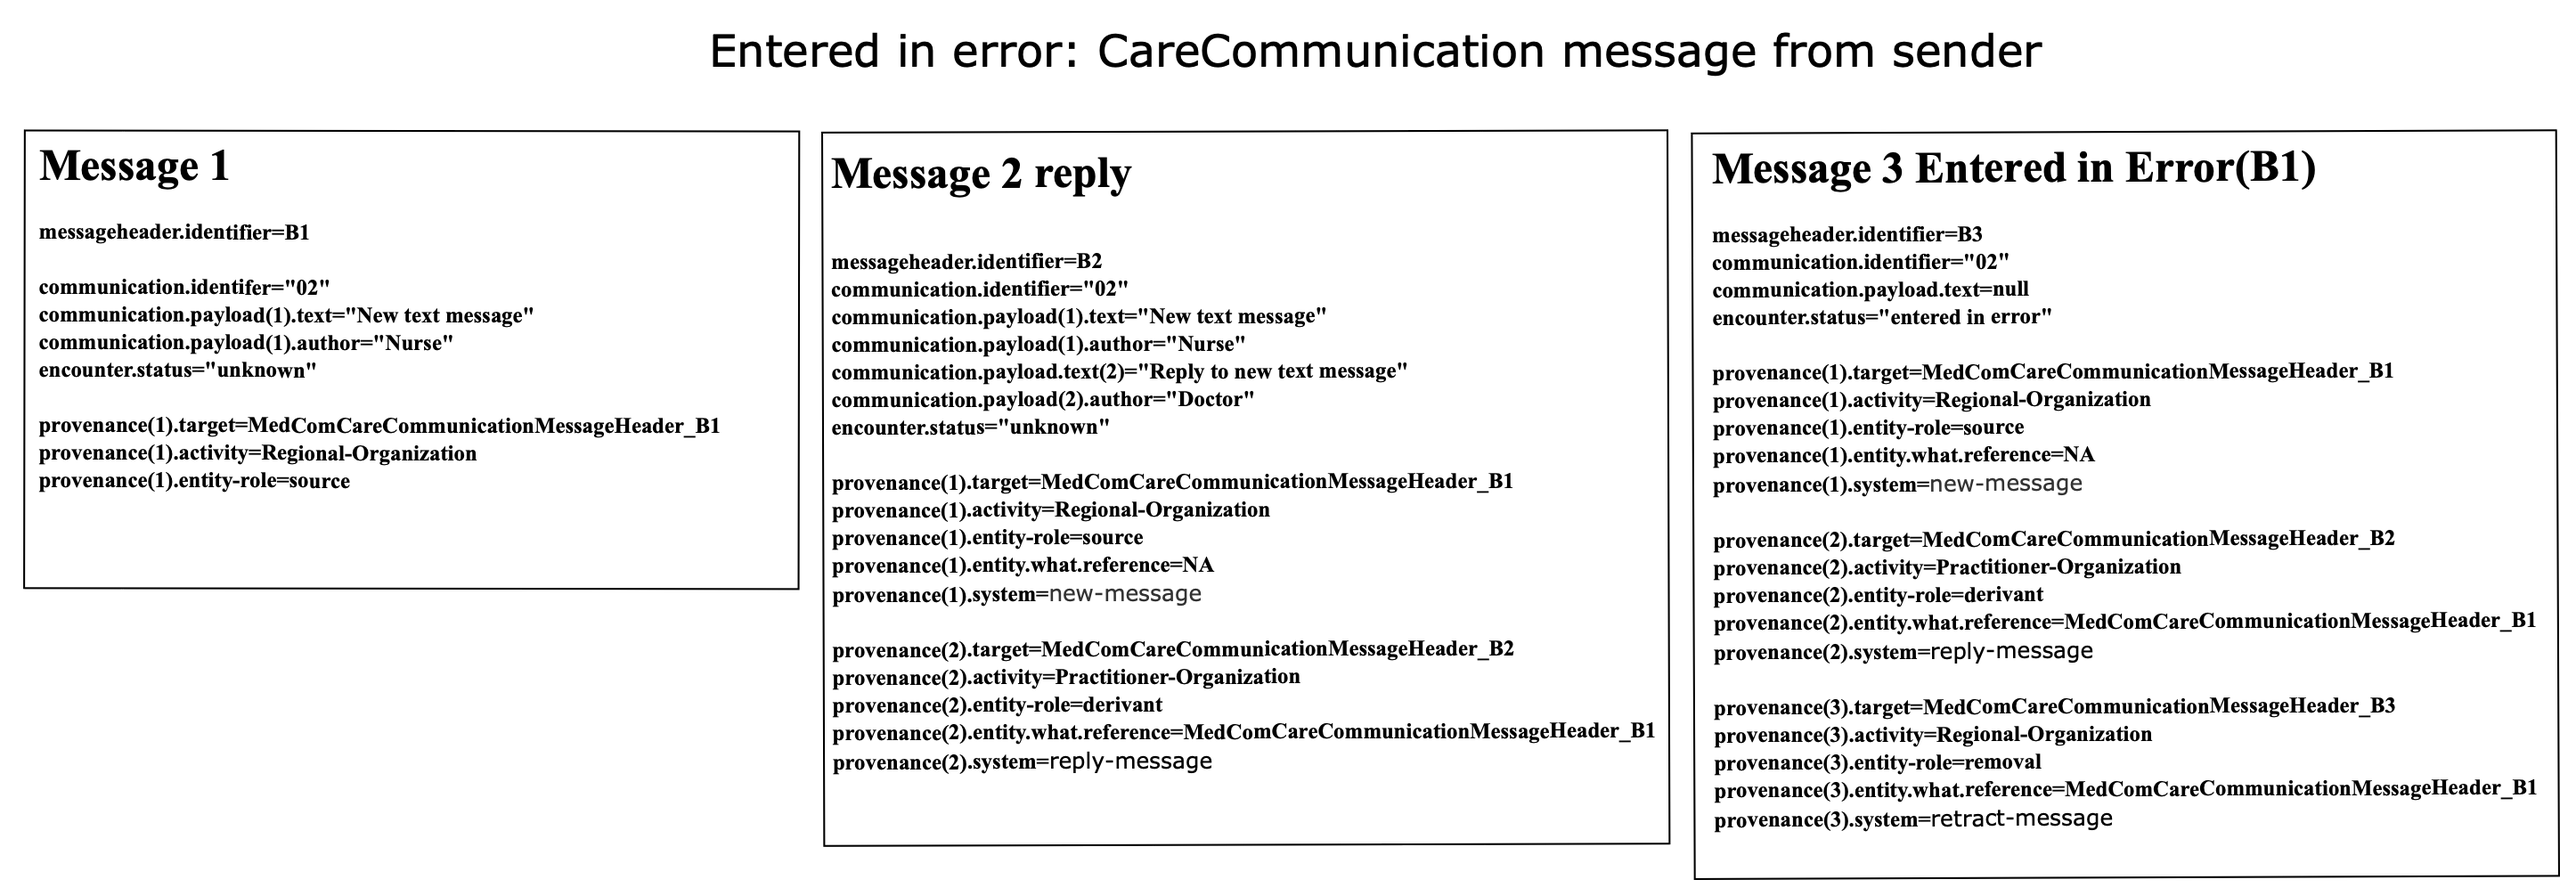
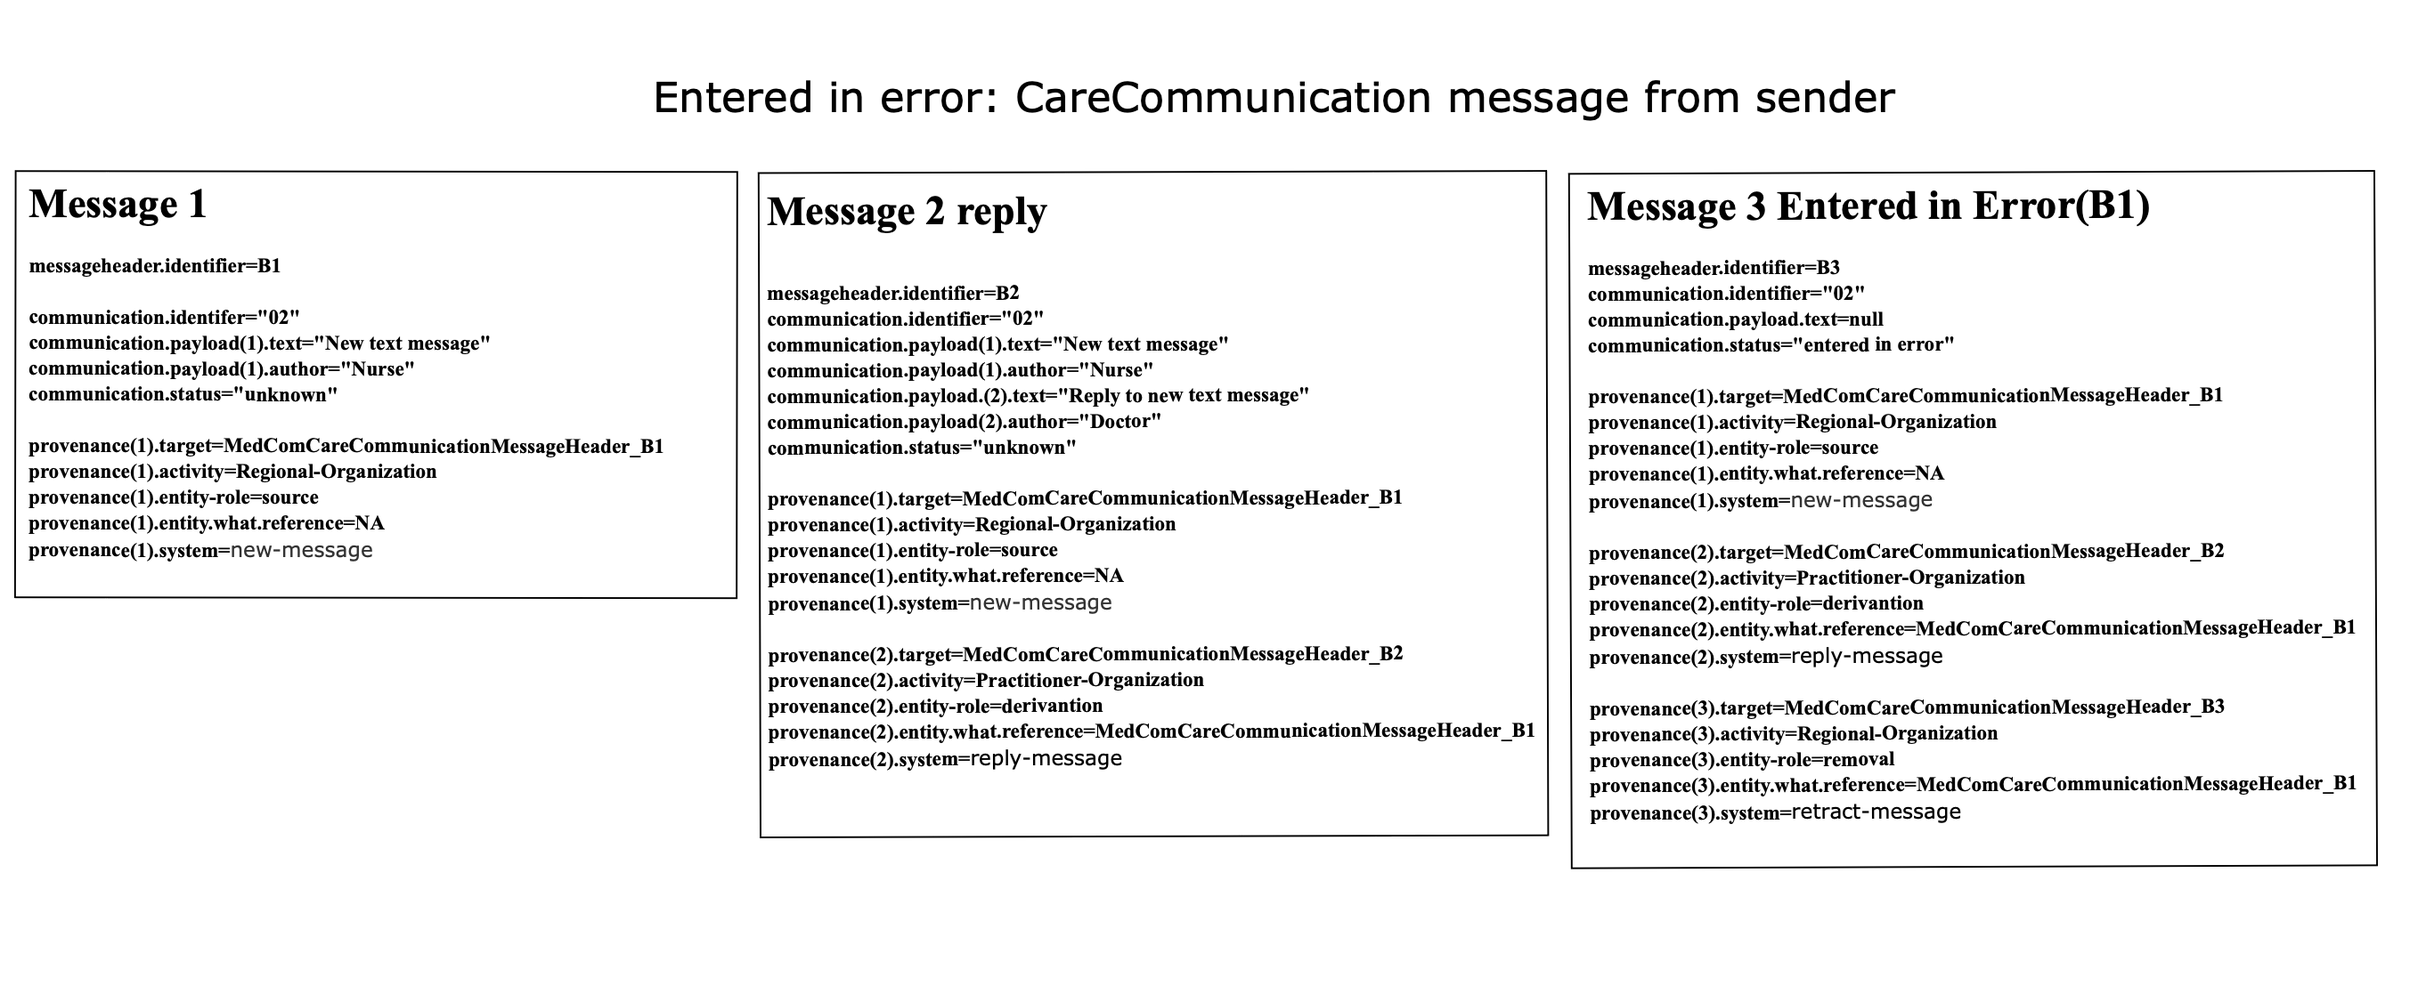
corrected carecommunication graphic and moved information to intro section

diff --git a/input/pagecontent/StructureDefinition-medcom-careCommunication-message-intro.md b/input/pagecontent/StructureDefinition-medcom-careCommunication-message-intro.md
@@ -5,10 +5,7 @@ This profile is the root profile of MedCom CareCommunication message.
 The message contains a bundle that is selfcontained regarding references. 
 The Bundle containing the CareCommunication message shall contain one instance of the MedComMessagingMessage. By convention the cardinality is shown as 0..*
 
-Please refer to the tab "Snapshort Table(Must support)" below for the definition of the required content of a MedComCareCommunicationMessage.
-
-For decription of how to handle message references when sending a reply or forward a MedComCareCommunicationMessage, handling of errors and references between XDIS91 and CareCommunication please refer to the section "Notes".
-The section "Notes" if found at the end of this page.
+Please refer to the tab "Snapshort Table(Must support)" below for the definition of the required content of a MedComCareCommunicationMessage.  
 
 For description regarding the transportation layer please refer to this guide:  
   
@@ -18,4 +15,68 @@ English:
 Danish:  
 * [ MedComs FHIR-meddelelser og forsendelseskuvert 1.0 ](./pdf/MedComs_FHIR-meddelelser_og_forsendelseskuvert_1.0.pdf)  
 
+A CareCommunication message shall contain a text message and zero or more attachments.
+The Communication status may be "unknown". The provenance entity role shall be "source" and provenance system shall be "new-message".
+The Encounter resource is not mandatory in the CareCommunication profile, but if present the Encounter status recommended is "in-progress". 
+For an example of a new message please refer to the following flow examples.
 
+The  non-technical guide lines and use cases for CareCommunication is found here:
+
+English:
+* [CareCommunication Use Cases](./carecommunication/pdf/USE%20CASES_FHIR%20Care%20Communication.pdf)
+* [Non-technical guidelines for CareCommunication](./carecommunication/pdf/FHIR%20Care%20Communication%2C%20MedCom%20FHIR%20Standard.pdf)
+
+Danish:
+* [CareCommunication Use Cases](./carecommunication/pdf/Use%20Cases_FHIR%20Korrespondancemeddelelse.pdf)
+* [Non-technical guidelines for CareCommunication](./carecommunication/pdf/FHIR_Korrespondancemeddelelse.pdf)
+
+#### How to reply a MedComCareCommunicationMessage
+This section describes how a CareCommunicationMessage reply flow shall be handled.
+When sending a reply to a received MedComCareCommunication the reply may contain both the received message and attachments.
+The Communication status may be "unknown". The provenance entity role shall be "derivation" as it is the based on a pre-existing entity and provenance system shall be "reply-message".
+
+
+Please refer to following example:
+* [Simplified example of a MedComCareCommunicationMessage reply message](./carecommunication/CareCommunicationReplyExample.png)
+
+
+#### How to forward a MedComCareCommunicationMessage
+This section describes how a CareCommunicationMessage forward flow shall be handled.  
+When forwarding a received MedComCareCommunication the forward message shall contain both the received message, possible other messages in same communication flow and attachments.
+The Communication status may be "unknown". The provenance entity role shall be "quotation" as it is a repeat of an already transmitted message and provenance system shall be "forward-message".
+
+
+Please refer to following example:
+* [Simplified example of a MedComCareCommunicationMessage forward message ](./carecommunication/CareCommunicationForwardExample.png)
+
+The provenance element always references the last message transmitted, please refer to the example below for an example:
+* [Simplified example of a MedComCareCommunicationMessage forward a reply message ](./carecommunication/CareCommunicationForwardReplyExample.png)
+
+#### Message entered in error  
+This section describes how message entered in error shall be handled.
+If a message a is sent by mistake, the message a shall be marked as sent as error by creating a new FHIR MedComCareCommunicationMessage 
+using the MedComCareCommunication status "entered-in-error" and letting the provenance element point to the errorneous message.
+The provenance entity role shall be "removal" and the provenance system shall be "retract-messasge".  
+
+Please refer to the following examples:
+* [Simplified example of a MedComCareCommunicationMessage where original message is entered in error  ](./carecommunication/CareCommunicationSenderEnteredInErrorExample.png)
+* [Simplified example of a MedComCareCommunicationMessage where message reply is entered in error  ](./carecommunication/CareCommunicationReplyEnteredInErrorExample.png)
+
+#### Message entered is corrected
+This section describes how message shall be corrected.
+It a message text transmitted shall be corrected, the correction message contains the corrected message and the provenance element points the message that shall be corrected. 
+The provenance entity role shall be "revision" and the provenance system shall be "retract-messasge".  
+
+* [Simplified example of a MedComCareCommunicationMessage correction](./carecommunication/CareCommunicationCorrectionExample.png)
+
+#### Message sent in reply to a received MedCom oioxml/edifact message
+When MedComCareCommunication message is sent based on a received MedCom edifact/oioxml message the EpisodeOfCareIdentifier resource referenced by the Encounter ressource 
+shall contain the episode of care identifier of the edifact/oioxml message if present.
+The provenance system skal contain a reference to the received edifact/oioxml. The reference shall contain the locationnumber and letter identfier, divided by #.
+
+* [Simplified example of a MedComCareCommunicationMessage reply to edifact/oioxml](./carecommunication/CareCommunicationBasedOnEdi.png)
+
+
+#### Data references between MedCom XDIS91 standard and the MedCom FHIR CareCommunication profile
+Please refer to:
+* [XDIS91 -> CareCommunication  ](./carecommunication/oioxmlReferencesCareCommunication.png)

diff --git a/input/pagecontent/StructureDefinition-medcom-hospitalNotification-message-intro.md b/input/pagecontent/StructureDefinition-medcom-hospitalNotification-message-intro.md
@@ -5,10 +5,8 @@ This profile is the root profile of MedCom HosptialNotification message.
 The message contains a bundle that is selfcontained regarding references. 
 The Bundle containing the HospitalNotification message shall contain one instance of the MedComMessagingMessage. By convention the cardinality is shown as 0..*
 
-Please refer to the tab "Snapshort Table(Must support)" below for the definition of the required content of a MedComHospitalNotificationMessage.
+Please refer to the tab "Snapshort Table(Must support)" below for the definition of the required content of a MedComHospitalNotificationMessage.  
 
-For decription of how to handle the different types of messages, handling of errors and references between OIOXML advis and the HospitalNotification message please refer to the section "Notes".
-The section "Notes" if found at the end of this page.
 
 For description regarding the transportation layer please refer to this guide:  
    
@@ -18,6 +16,38 @@ English:
 Danish:  
 * [ MedComs FHIR-meddelelser og forsendelseskuvert 1.0 ](./pdf/MedComs_FHIR-meddelelser_og_forsendelseskuvert_1.0.pdf)  
 
+#### Information regarding non-technical guide lines and use cases for HospitalNotification is found here:
 
+English:
+* [HosptialNotification Use Cases](./hospitalnotification/pdf/Use%20cases_Hospital%20Notification_eng.pdf)
+* [Non-technical guidelines for HospitalNotification](./hospitalnotification/pdf/FHIR_Hospital_Notification.pdf)
+
+Danish:
+* [HospitalNotification Use Cases](./hospitalnotification/pdf/Use_cases_advis_om_sygehusophold.pdf)
+* [Non-technical guidelines for HospitalNotification](./hospitalnotification/pdf/FHIR_advis_om_sygehusophold.pdf)
+
+
+#### How to send HospitalNotification Messages for the same encounter
+This section describes how a HospitalNotificationMessage flow.
+
+
+The change of state is dispicted in both the MedComHospitalNotificationEncounter *status*/*class* and the MedComCoreProvenance element *system*.
+Please refer to following map document for details.  
+[Map between the Provenance *system* and the Encounter *class*/*status* ](./hospitalnotification/pdf/Overview_advis_codes_HL7_FHIR.pdf)
+
+
+Please refer to following example:  
+* [Simplified example of a MedComHospitalNotificationMessage for admit and finished stay ](./hospitalnotification/HospitalNotificationAdmitFinishedExample.png)
+* [Simplified example of a MedComHospitalNotificationMessage for admit, onleave, end onleave and finished stay ](./hospitalnotification/HospitalNotificationAdmitOnleaveFinishedExample.png)
+
+#### Message entered in error    
+This section describes how message entered in error shall be handled.
+
+Please refer to the following examples:  
+* [Simplified example of a MedComHospitalNotificationMessage entered in error ](./hospitalnotification/HospitalNotificationEnteredInErrorExample.png)
+
+#### Data references between MedCom OIOXML advis standard and the MedCom FHIR profile
+Please refer to:  
+* [OIOXML advis -> HospitalNotification ](./hospitalnotification/oioxmlReferencesHospitalNotificaion.png)
 
 
